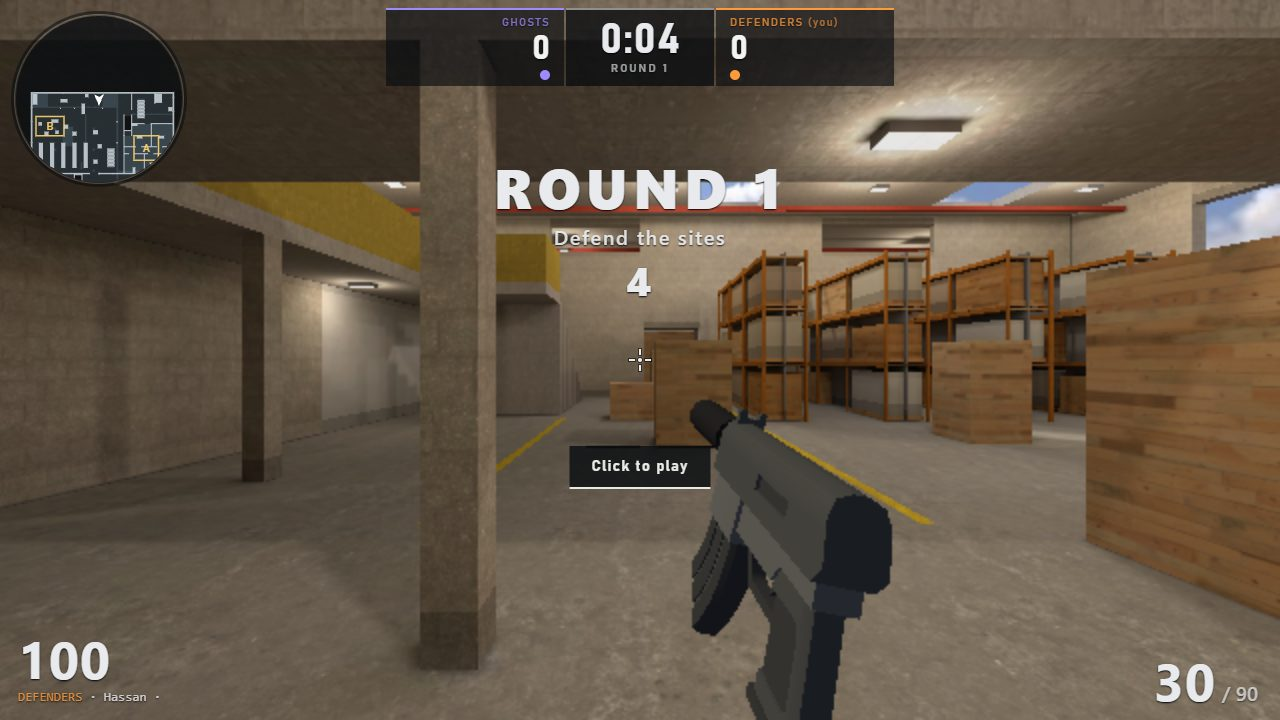
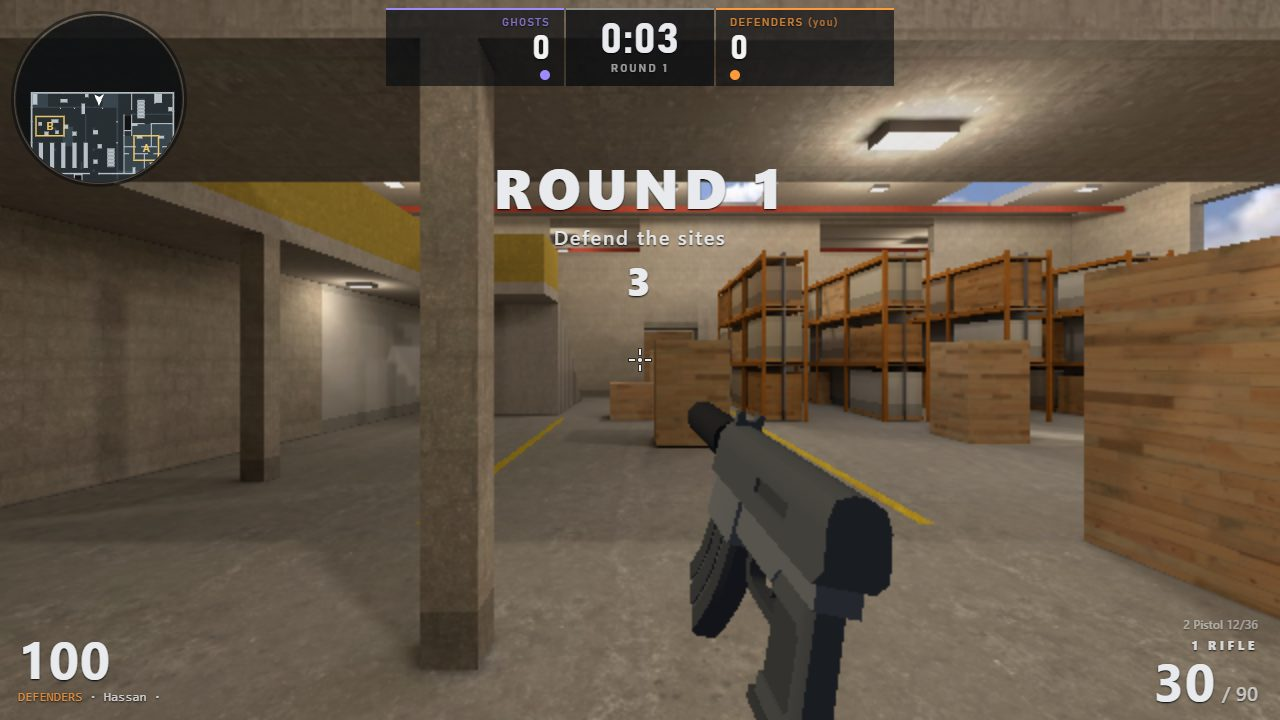
Match flow: weapon-aware tests, close-code logging, real full-match screenshots on both maps, HANDOFF for the merged state

diff --git a/server/src/main.ts b/server/src/main.ts
@@ -88,11 +88,11 @@ wss.on('connection', (ws, req) => {
         }
     });
     ws.on('pong', () => alive.add(ws));
-    ws.on('close', () => {
+    ws.on('close', (code, reason) => {
         rooms.leave(roomId, id);
         const left = (perIp.get(ip) ?? 1) - 1;
         if (left > 0) perIp.set(ip, left); else perIp.delete(ip);
-        console.log(`[${roomId}] player ${id} left (${room.players.size} in room, ${rooms.rooms.size} rooms)`);
+        console.log(`[${roomId}] player ${id} left, close ${code} ${reason.toString()} (${room.players.size} in room, ${rooms.rooms.size} rooms)`);
     });
     ws.on('error', () => ws.terminate());
 });

diff --git a/server/src/matchflow.test.ts b/server/src/matchflow.test.ts
@@ -552,7 +552,7 @@ describe('damage events', () => {
         const d = dmgs(ghost)[0];
         // The defender is at -Z of the ghost: bearing 0 faces -Z.
         expect(d.dir).toBeCloseTo(0, 5);
-        expect(d).toMatchObject({ amount: 34, kind: 'shot' });
+        expect(d).toMatchObject({ amount: 34, kind: 'shot', weapon: 0 }); // the rifle's slot
         expect(d.killed).toBeUndefined();
         expect(defender.last('hitconfirm')).toEqual({ type: 'hitconfirm', kind: 'body' });
         r.run(ticks(3000)); // recoil recovers in commands, so keep sending them

diff --git a/client/src/main.ts b/client/src/main.ts
@@ -227,7 +227,8 @@ async function start(): Promise<void> {
     boxes.push(...mapData.boxes);
     radar.setMap(mapData);
     // A dropped connection gets one automatic reconnect to the same room, then asks.
-    net.onClose = () => {
+    net.onClose = (code, reason) => {
+        console.warn(`connection closed: ${code} ${reason}`);
         let tried = false;
         try { tried = sessionStorage.getItem('sb-rejoin-tried') === '1'; } catch { /* treat as untried */ }
         if (tried) {

diff --git a/HANDOFF.md b/HANDOFF.md
@@ -31,24 +31,26 @@ The game is playable end to end on a local machine: menu, rooms, rounds, bomb, s
 ## Match flow, HUD and menus (branch `claude/match-flow-hud-menus-da874f`, protocol 8)
 
 **Server (all JSON, nothing predicted).** `Game` takes `{ lobby: true }` (set by `Rooms`; tests and `tools/bench.ts` leave it off, which keeps the old "start as soon as both teams have a player" behaviour).
-- Lobby: a room starts in warmup (everyone walks around and respawns). The round machine leaves warmup when every connected player is `ready` **or** the creator sent `start`, and both teams have a (non-idle) player. Ready flags reset when a round starts and when a match falls back to warmup; a team emptying mid-match also zeroes the score and statistics.
+- Lobby: a room starts in warmup (everyone walks around and respawns). The round machine leaves warmup when every connected player is `ready` **or** the creator sent `start`, and both teams have a (non-idle) player. Ready flags reset when a round starts and when a match falls back to warmup.
+- Held matches: when a team empties mid-match (a disconnect in a 1 v 1) the room falls back to warmup but **keeps score, round count, sides and statistics for `GRACE_MS` = 60 s** (`Game.held`). If both teams have a player again within it the next round starts by itself with no ready-up (the interrupted round is replayed under the same number); after it the match is reset and the room is a fresh lobby. Kills made in that warmup do not count. A player who leaves mid-match is remembered by cleaned name for the same 60 s: rejoining under that name gives back their statistics and side, unless two leavers shared the name or a player with that name is already connected (then nothing is restored). A held match that is not resumed is wiped; finishing a match never holds.
 - Creator = longest-connected player (`Game.creatorId`, derived from `joinedAt`, so it passes on by itself when they leave).
 - Teams: a new player joins the smaller team (ghosts on a tie). In warmup `{type:'team'}` switches, refused if the teams would then differ by more than one (`MAX_TEAM_GAP`) and refused outside warmup.
 - Statistics (`MatchStats` in `shared/protocol.ts`, carried on every `RosterEntry`): kills, deaths, assists (damage within `ASSIST_MS` = 4 s before someone else's kill), headshots (headshot hits), backstabs, damage (health actually removed), plants, defuses. Reset when a match starts. The roster is re-sent on every kill, round start and round end.
 - Match end: the round that reaches 6 sends `summary` (winner, score, every player's stats, `mvp`, `nextAt`) once, holds the result `MATCH_OVER_MS` = 20 s, then starts a fresh match: same room, same map, score and stats zeroed, **players keep their group** (the side they started on, so the roles reset to the first-half roles, not to what they played last). Players joining during the result screen get the stored `summary`, are not spawned, and join the new match. MVP score is documented in `shared/stats.ts` (`mvpScore`).
 - Chat (`{type:'chat', team, text}`): `cleanChat` (`shared/chat.ts`) strips control characters, collapses whitespace and caps at 120 characters; 4 lines burst, one more per 1.5 s, extra lines dropped with a `notice`. While a round is on (freeze, live, planted) a dead player's line (a mid-round joiner counts as dead) reaches **only dead players**; team chat reaches only the sender's team; between rounds and in warmup everyone hears everyone.
-- Idle: a living player whose commands change nothing (movement, view angles, buttons; not `seq` or `viewTime`) for `IDLE_MS` = 90 s of a live or planted round is killed silently (no death counted), flagged `idle` in the roster, told by `notice`, and left out of the team counts so the round can end. Any input change clears the flag; they spawn again at the next round start. The clock only runs while a round is live.
+- Idle: nobody is ever removed mid-round (a ghost standing perfectly still is playing correctly). A player who took part in a round (`inRound`, spawned for it) and produced no input change at all from its freeze to its end (`changedThisRound`; movement, view angles, buttons, weapon slot, swap, aim; not `seq` or `viewTime`) for `IDLE_ROUNDS` = 2 rounds in a row is marked `idle` when the second round ends, told by `notice`, and is not spawned at the next round start (idle players do not hold a team up, so a team that is all idle falls back to warmup and is held). Any input change clears the flag, and they spawn at the following round start. Players who joined mid-round do not count that round.
 - Damage events: `dmg` goes to the victim with `dir` (world bearing toward the attacker, yaw convention) and `amount` only; the killing blow adds `by` and `dist`. `hitconfirm` (`body`, `head`, `kill`) goes to the attacker. A ghost that stabs a defender is within 2 m, inside the 8 m breathing range, so this adds nothing `knowsAbout` forbids; tests check the keys and that no `pos` appears. `shot` and `slash` events are unchanged.
 - Client JSON messages are routed by `Game.handleMessage` (text frames; `maxPayload` was raised from 256 to 1024 bytes for chat).
 
-**Client.** `client/src/ui.ts` + `ui.css`: menu (create, join, quick play, how-to shown once), loading screen, connection error screens, lobby panel, pause, settings, controls, result card, chat. `settings.ts` stores settings in `localStorage` (`sb-settings`) and notifies listeners; `radar.ts` is the radar; HUD additions (alive pips, bomb and round timer, damage direction, low-health pulse, death recap, spectating label, custom crosshair) are in `presenter.ts` behind `presenter-api.ts`. Hit marker sound and volume controls are in `audio.ts` behind `audio-api.ts`. In `main.ts`: join flow and connection handling, the settings subscription, the spectator camera and radar update.
+**Client.** `client/src/ui.ts` + `ui.css`: menu (create, join, quick play, how-to shown once), loading screen, connection error screens, lobby panel, pause, settings, controls, result card, chat. `settings.ts` stores settings in `localStorage` (`sb-settings`) and notifies listeners; `radar.ts` is the radar; HUD additions (alive pips, bomb and round timer, damage direction, low-health pulse, death recap, spectating label, custom crosshair) are in `presenter.ts` behind `presenter-api.ts`. The death recap and kill feed name the weapon (`dmg.weapon` and the shot event's `weapon`). Hit marker sound and volume controls are in `audio.ts` behind `audio-api.ts`. In `main.ts`: join flow and connection handling, the settings subscription, the spectator camera and radar update.
 - Pause: whenever pointer lock is lost with nothing else open (Esc) the pause menu opens and the match keeps running. The mouse is released while typing chat so Esc reaches the chat box.
 - Spectating uses only what a dead player is already sent: teammates (always in snapshots, with yaw and pitch), followed in first person; with no living teammate the camera shows the whole map from above (this only lasts through the round-over pause or a planted bomb, since a round ends when the last ghost or defender dies).
 - Reconnect: a connection that drops after joining reloads the page once with the room, name and map remembered in `sessionStorage` (`sb-rejoin`); if that fails the error screen has a retry button. Settings survive in `localStorage`.
 - Radar: north-up, 24 m radius, boxes of the current floor, own team only, sites, and the planted bomb. It is never given enemies.
 
-**Match flow: gaps (what was and was not checked).** Checked in headless Chrome (driven over the DevTools protocol, software GL) against bots, on both maps: menu, join by code, lobby panel with ready, chat (all and team), HUD in a live round, Tab scoreboard, pause, settings, controls, loading and error screens (server unreachable, unknown map, too many connections), a complete match to the result card with its countdown and the rematch (on a scratch server with shortened rules: 10 s rounds, 2 rounds to win; the real 120 s rounds and 6-round match were only covered by `server/src/matchflow.test.ts`), idle move to spectate then first-person follow of a teammate and the map overview, and the hit marker and damage direction widgets (called through `__sb.presenter`, not from a real fight). Screenshots: `docs/review/match-flow/`.
-- **Never seen with real input:** pointer lock (Esc to pause, mouse released for chat and re-captured after), copy invite link (clipboard), the death recap and hit marker from real hits (server events are tested, the client wiring only by reading), the hit sound and the volume sliders by ear, the automatic reconnect after a dropped connection, "Room full" in a browser (local connections hit the per-IP limit first; `rooms.test.ts` covers the rule), and a long real match: a headless client dropped off the server after a few minutes in several runs, cause not found (it was a throttled headless page; no server error was logged), so a human playing 13 minutes is untested.
+**Match flow: gaps (what was and was not checked).** Checked in headless Chrome (driven over the DevTools protocol, software GL) against bots: menu, join by code, lobby panel with ready, chat, HUD in a live round, Tab scoreboard, pause, settings, controls, loading and error screens (server unreachable, unknown map, too many connections); **a complete real match (120 s rounds, first to 6, halftime swap) to the result card and into the rematch on both maps** (about 24 minutes each, a human client against a bot, so the score and statistics were all zeros apart from rounds won; screenshots `wh_result.jpg`, `gb_result.jpg`, `*_rematch.jpg`); at `?lag=150` with the merged weapons: switching with 2 and 1, aiming, a pistol shot, a reload, with chat open and with the pause menu open (weapon keys did nothing in either), ending with `error` 0, `gunMismatches` 0 and `knifeMismatches` 0; and the map overview. The unit tests cover the 90 s of a live round, two quiet rounds, the grace period, restores and chat rules (`server/src/matchflow.test.ts`). Screenshots: `docs/review/match-flow/`.
+- **Staged screenshots, not real events:** `damage_direction.jpg` and `hitmarker_headshot.jpg` (widgets called through `__sb.presenter`), `death_recap_weapon.jpg` (the recap line called through the presenter while alive), and `spectate_follow.jpg` / `spectate_overview.jpg` (taken before the idle rule changed, when a still player was moved to spectate; the camera code has not changed since, but the follow view was not re-shot after the weapons merge). Earlier result screenshots that showed 1:2 came from a scratch server with shortened rules edited in temporarily and reverted; no override is in the code.
+- **Never seen with real input:** pointer lock (Esc to pause, mouse released for chat and re-captured after), copy invite link (clipboard), the death recap and hit marker from real hits (server events are tested, the client wiring only by reading), the hit sound and the volume sliders by ear, the automatic reconnect after a dropped connection, "Room full" in a browser (local connections hit the per-IP limit first; `rooms.test.ts` covers the rule) and a person playing a long match. (Several earlier headless runs dropped off the server with the machine under heavy load; a lone run held for 24 minutes. The client now logs the close code and the server logs it on leave.)
 - Graphics quality only caps the adaptive resolution step (low 60%, medium 80%, high 100%).
 - Radar: built from the collision boxes (floors within 0.45 m of the player's feet, solids that block a standing player). It was seen on both maps; multi-floor behaviour on Warehouse stairs was not checked.
 - A mid-round joiner counts as dead for chat purposes until the next round.
